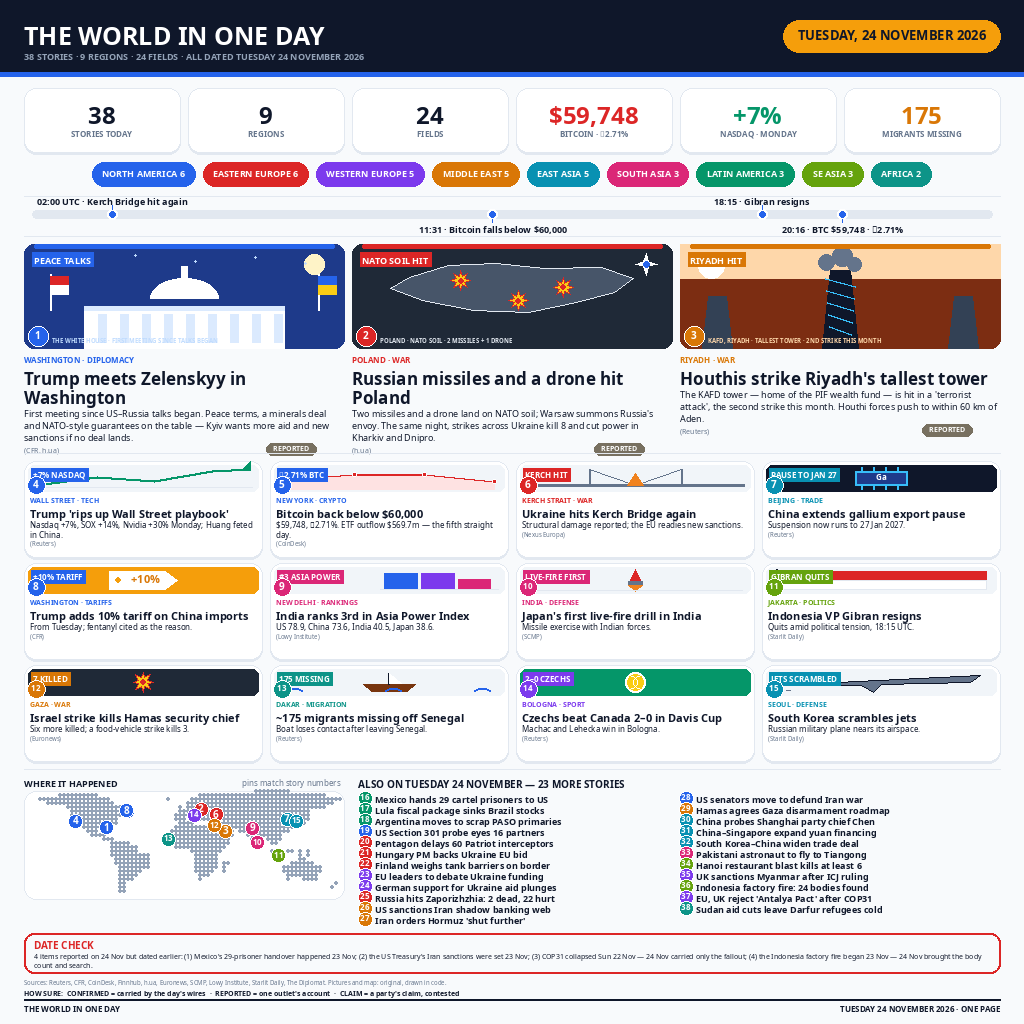
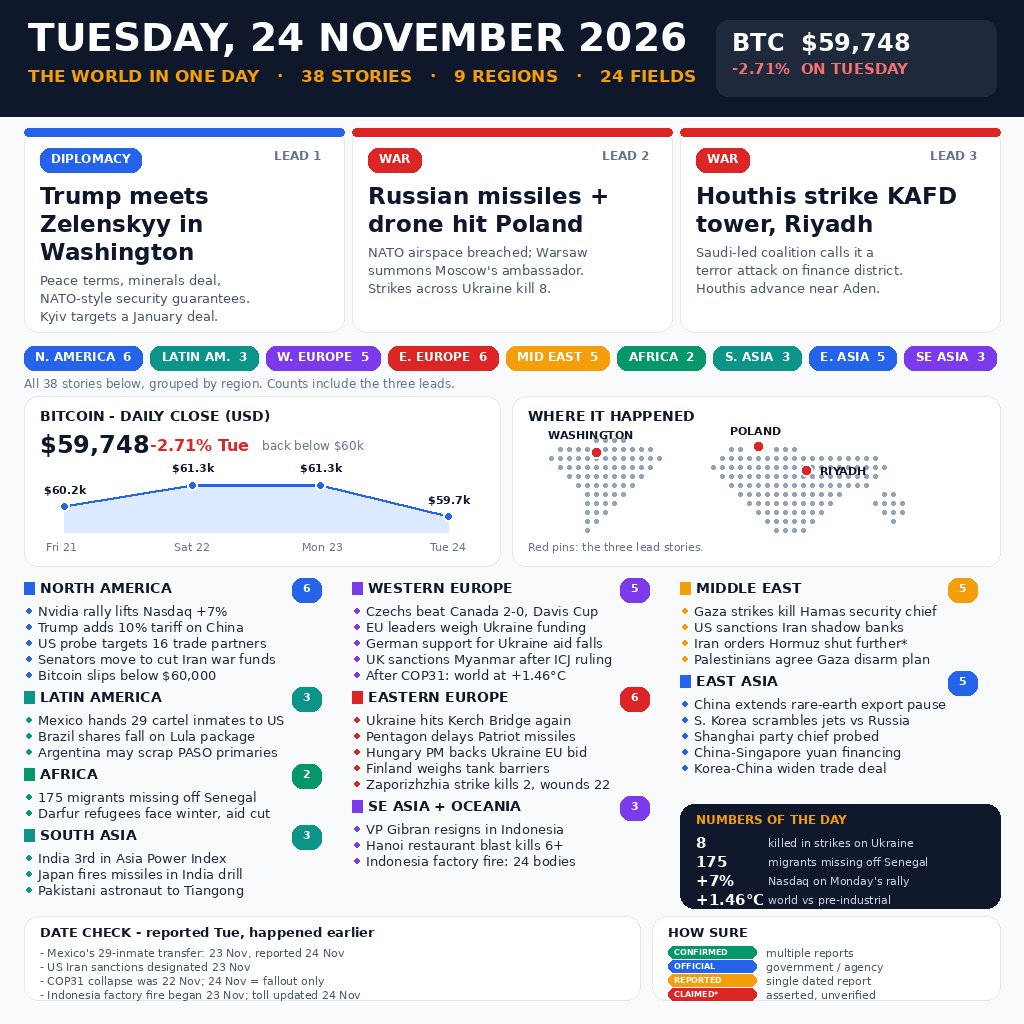
News 24 v2: legibility redesign - huge date masthead, big leads, region-grouped stories

diff --git a/main.py b/main.py
@@ -1,21 +1,285 @@
 #!/usr/bin/env python3
-"""Entry program for news-image-20261124: copy the pre-rendered front page
-to the output directory. Deterministic: no clock, no network, no randomness.
-The image is generated by prep/news24/build.py and stored in this repo as
-entry.png; this program only copies it byte-for-byte.
+"""news-image-20261124 v2: render Tuesday 24 November 2026 in one image.
+
+Deterministic Pillow render: fixed data, fixed fonts, no clock, no network.
+Writes entry.png (1024x1024) into MAKEFUN_OUTPUT_DIR or /output.
+Design goal: masthead date + three lead headlines readable at ~300px;
+all 38 stories kept, grouped by region in large type.
 """
-import os, shutil
+import os
+from PIL import Image, ImageDraw, ImageFont
+
+W = H = 1024
+INK = (15, 23, 42)
+PAPER = (248, 250, 252)
+CARD = (255, 255, 255)
+LINE = (226, 232, 240)
+MUT = (100, 116, 139)
+BLUE = (37, 99, 235)
+AMBER = (245, 158, 11)
+RED = (220, 38, 38)
+GREEN = (5, 150, 105)
+TEAL = (13, 148, 136)
+PURPLE = (124, 58, 237)
+WHITE = (255, 255, 255)
+
+FB = "/usr/share/fonts/truetype/dejavu/DejaVuSans-Bold.ttf"
+FR = "/usr/share/fonts/truetype/dejavu/DejaVuSans.ttf"
+
+
+def f(path, size):
+    return ImageFont.truetype(path, size)
+
+
+LEADS = [
+    ("DIPLOMACY", BLUE, "Trump meets Zelenskyy in Washington",
+     ["Peace terms, minerals deal,", "NATO-style security guarantees.", "Kyiv targets a January deal."]),
+    ("WAR", RED, "Russian missiles + drone hit Poland",
+     ["NATO airspace breached; Warsaw", "summons Moscow's ambassador.", "Strikes across Ukraine kill 8."]),
+    ("WAR", RED, "Houthis strike KAFD tower, Riyadh",
+     ["Saudi-led coalition calls it a", "terror attack on finance district.", "Houthis advance near Aden."]),
+]
+
+REGIONS = [
+    ("NORTH AMERICA", 6, BLUE, [
+        "Nvidia rally lifts Nasdaq +7%",
+        "Trump adds 10% tariff on China",
+        "US probe targets 16 trade partners",
+        "Senators move to cut Iran war funds",
+        "Bitcoin slips below $60,000",
+    ]),
+    ("LATIN AMERICA", 3, TEAL, [
+        "Mexico hands 29 cartel inmates to US",
+        "Brazil shares fall on Lula package",
+        "Argentina may scrap PASO primaries",
+    ]),
+    ("WESTERN EUROPE", 5, PURPLE, [
+        "Czechs beat Canada 2-0, Davis Cup",
+        "EU leaders weigh Ukraine funding",
+        "German support for Ukraine aid falls",
+        "UK sanctions Myanmar after ICJ ruling",
+        "After COP31: world at +1.46°C",
+    ]),
+    ("EASTERN EUROPE", 6, RED, [
+        "Ukraine hits Kerch Bridge again",
+        "Pentagon delays Patriot missiles",
+        "Hungary PM backs Ukraine EU bid",
+        "Finland weighs tank barriers",
+        "Zaporizhzhia strike kills 2, wounds 22",
+    ]),
+    ("MIDDLE EAST", 5, AMBER, [
+        "Gaza strikes kill Hamas security chief",
+        "US sanctions Iran shadow banks",
+        "Iran orders Hormuz shut further*",
+        "Palestinians agree Gaza disarm plan",
+    ]),
+    ("AFRICA", 2, GREEN, [
+        "175 migrants missing off Senegal",
+        "Darfur refugees face winter, aid cut",
+    ]),
+    ("SOUTH ASIA", 3, TEAL, [
+        "India 3rd in Asia Power Index",
+        "Japan fires missiles in India drill",
+        "Pakistani astronaut to Tiangong",
+    ]),
+    ("EAST ASIA", 5, BLUE, [
+        "China extends rare-earth export pause",
+        "S. Korea scrambles jets vs Russia",
+        "Shanghai party chief probed",
+        "China-Singapore yuan financing",
+        "Korea-China widen trade deal",
+    ]),
+    ("SE ASIA + OCEANIA", 3, PURPLE, [
+        "VP Gibran resigns in Indonesia",
+        "Hanoi restaurant blast kills 6+",
+        "Indonesia factory fire: 24 bodies",
+    ]),
+]
+
+BTC = [("Fri 21", 60216), ("Sat 22", 61271), ("Mon 23", 61271), ("Tue 24", 59748)]
+
+DATE_CHECK = [
+    "Mexico's 29-inmate transfer: 23 Nov, reported 24 Nov",
+    "US Iran sanctions designated 23 Nov",
+    "COP31 collapse was 22 Nov; 24 Nov = fallout only",
+    "Indonesia factory fire began 23 Nov; toll updated 24 Nov",
+]
+
+HOW_SURE = [
+    ("CONFIRMED", GREEN, "multiple reports"),
+    ("OFFICIAL", BLUE, "government / agency"),
+    ("REPORTED", AMBER, "single dated report"),
+    ("CLAIMED*", RED, "asserted, unverified"),
+]
+
+
+def card(d, box, r=14, fill=CARD, outline=LINE):
+    d.rounded_rectangle(box, radius=r, fill=fill, outline=outline, width=1)
+
+
+def pill(d, x, y, text, color, font, fg=WHITE):
+    tw = d.textlength(text, font=font)
+    d.rounded_rectangle([x, y, x + tw + 22, y + 24], radius=10, fill=color)
+    d.text((x + 11, y + 3), text, font=font, fill=fg)
+    return x + tw + 22
+
+
+def wrap(d, text, font, maxw):
+    words, lines, cur = text.split(), [], ""
+    for w in words:
+        t = (cur + " " + w).strip()
+        if d.textlength(t, font=font) <= maxw:
+            cur = t
+        else:
+            lines.append(cur)
+            cur = w
+    if cur:
+        lines.append(cur)
+    return lines
+
+WORLD = [
+    "      ####                                    ",
+    "  ###########        ##   ###                 ",
+    " #############      ##################        ",
+    "  ###########      ####################       ",
+    "   #########        ##################        ",
+    "    #######          ################         ",
+    "     #####            ############    ##      ",
+    "     ####              ##########    ####     ",
+    "     ###                ########      ###     ",
+    "     ##                  ######        #      ",
+    "     #                    ####                ",
+]
+
+
+def draw():
+    img = Image.new("RGB", (W, H), PAPER)
+    d = ImageDraw.Draw(img)
+
+    # Masthead
+    d.rectangle([0, 0, W, 116], fill=INK)
+    d.text((28, 14), "TUESDAY, 24 NOVEMBER 2026", font=f(FB, 39), fill=WHITE)
+    d.text((28, 66), "THE WORLD IN ONE DAY   ·   38 STORIES   ·   9 REGIONS   ·   24 FIELDS",
+           font=f(FB, 17), fill=AMBER)
+    d.rounded_rectangle([716, 20, 996, 96], radius=12, fill=(30, 41, 59))
+    d.text((732, 28), "BTC  $59,748", font=f(FB, 24), fill=WHITE)
+    d.text((732, 60), "-2.71%  ON TUESDAY", font=f(FB, 15), fill=(248, 113, 113))
+
+    # Lead cards
+    for i, (kick, color, head, det) in enumerate(LEADS):
+        x = 24 + i * 328
+        card(d, [x, 128, x + 320, 332])
+        d.rounded_rectangle([x, 128, x + 320, 136], radius=4, fill=color)
+        pill(d, x + 16, 148, kick, color, f(FB, 12))
+        d.text((x + 250, 148), f"LEAD {i + 1}", font=f(FB, 12), fill=MUT)
+        y = 182
+        for ln in wrap(d, head, f(FB, 23), 288):
+            d.text((x + 16, y), ln, font=f(FB, 23), fill=INK)
+            y += 28
+        y += 6
+        for ln in det:
+            d.text((x + 16, y), ln, font=f(FR, 13), fill=(71, 85, 105))
+            y += 18
+
+    # Region strip
+    short = [("N. AMERICA", 6, BLUE), ("LATIN AM.", 3, TEAL), ("W. EUROPE", 5, PURPLE),
+             ("E. EUROPE", 6, RED), ("MID EAST", 5, AMBER), ("AFRICA", 2, GREEN),
+             ("S. ASIA", 3, TEAL), ("E. ASIA", 5, BLUE), ("SE ASIA", 3, PURPLE)]
+    x = 24
+    for name, n, color in short:
+        x = pill(d, x, 346, f"{name}  {n}", color, f(FB, 12)) + 8
+    d.text((24, 376), "All 38 stories below, grouped by region. Counts include the three leads.",
+           font=f(FR, 12), fill=MUT)
+
+    # BTC chart card
+    card(d, [24, 396, 500, 566])
+    d.text((40, 408), "BITCOIN - DAILY CLOSE (USD)", font=f(FB, 14), fill=INK)
+    d.text((40, 430), "$59,748", font=f(FB, 24), fill=INK)
+    d.text((150, 436), "-2.71% Tue", font=f(FB, 16), fill=RED)
+    d.text((262, 438), "back below $60k", font=f(FR, 12), fill=MUT)
+    lo, hi = 59000, 62000
+    pts = []
+    for i, (lab, v) in enumerate(BTC):
+        px = 64 + i * 128
+        py = 532 - (v - lo) / (hi - lo) * 62
+        pts.append((px, py))
+    d.polygon(pts + [(pts[-1][0], 532), (pts[0][0], 532)], fill=(219, 234, 254))
+    d.line(pts, fill=BLUE, width=3)
+    for (px, py), (lab, v) in zip(pts, BTC):
+        d.ellipse([px - 5, py - 5, px + 5, py + 5], fill=BLUE, outline=WHITE, width=2)
+        d.text((px - 20, py - 24), f"${v / 1000:.1f}k", font=f(FB, 11), fill=INK)
+        d.text((px - 18, 540), lab, font=f(FR, 11), fill=MUT)
+
+    # Map card
+    card(d, [512, 396, 1000, 566])
+    d.text((528, 408), "WHERE IT HAPPENED", font=f(FB, 14), fill=INK)
+    for r, row in enumerate(WORLD):
+        for c, ch in enumerate(row):
+            if ch == "#":
+                gx, gy = 540 + c * 9, 438 + r * 9
+                d.ellipse([gx, gy, gx + 4, gy + 4], fill=(148, 163, 184))
+    for (px, py, lab, lx, ly) in [(596, 452, "WASHINGTON", 548, 428),
+                                  (758, 446, "POLAND", 730, 424),
+                                  (806, 470, "RIYADH", 820, 464)]:
+        d.ellipse([px - 6, py - 6, px + 6, py + 6], fill=RED, outline=WHITE, width=2)
+        d.text((lx, ly), lab, font=f(FB, 11), fill=INK)
+    d.text((528, 540), "Red pins: the three lead stories.", font=f(FR, 11), fill=MUT)
+
+    # Story columns
+    cols = [[0, 1, 5, 6], [2, 3, 8], [4, 7]]
+    for ci, idxs in enumerate(cols):
+        x = 24 + ci * 328
+        y = 580
+        for ri in idxs:
+            name, n, color, stories = REGIONS[ri]
+            d.rectangle([x, y + 2, x + 10, y + 14], fill=color)
+            d.text((x + 16, y), name, font=f(FB, 14), fill=INK)
+            pill(d, x + 268, y - 2, str(n), color, f(FB, 11))
+            y += 23
+            for s in stories:
+                d.ellipse([x + 2, y + 5, x + 7, y + 10], fill=color)
+                d.text((x + 14, y), s, font=f(FR, 13), fill=(30, 41, 59))
+                y += 16
+            y += 6
+    # Big numbers box under column 3
+    bx, by = 680, 804
+    card(d, [bx, by, bx + 320, 908], fill=(15, 23, 42), outline=INK)
+    d.text((bx + 16, by + 8), "NUMBERS OF THE DAY", font=f(FB, 12), fill=AMBER)
+    nums = [("8", "killed in strikes on Ukraine"), ("175", "migrants missing off Senegal"),
+            ("+7%", "Nasdaq on Monday's rally"), ("+1.46°C", "world vs pre-industrial")]
+    yy = by + 30
+    for big, small in nums:
+        d.text((bx + 16, yy), big, font=f(FB, 15), fill=WHITE)
+        d.text((bx + 88, yy + 2), small, font=f(FR, 11), fill=(203, 213, 225))
+        yy += 19
+
+    # Bottom boxes
+    card(d, [24, 916, 640, 1000])
+    d.text((40, 924), "DATE CHECK - reported Tue, happened earlier", font=f(FB, 13), fill=INK)
+    yy = 946
+    for ln in DATE_CHECK:
+        d.text((40, yy), "- " + ln, font=f(FR, 11), fill=(71, 85, 105))
+        yy += 14
+    card(d, [652, 916, 1000, 1000])
+    d.text((668, 924), "HOW SURE", font=f(FB, 13), fill=INK)
+    yy = 946
+    for lab, color, desc in HOW_SURE:
+        d.rounded_rectangle([668, yy, 756, yy + 12], radius=6, fill=color)
+        d.text((674, yy + 1), lab, font=f(FB, 8), fill=WHITE)
+        d.text((766, yy), desc, font=f(FR, 11), fill=(71, 85, 105))
+        yy += 14
+    return img
+
 
 def main():
-    here = os.path.dirname(os.path.abspath(__file__))
-    src = os.path.join(here, "entry.png")
     outdir = os.environ.get("MAKEFUN_OUTPUT_DIR", "/output")
     os.makedirs(outdir, exist_ok=True)
     dst = os.path.join(outdir, "entry.png")
-    shutil.copyfile(src, dst)
-    # Guard the determinism contract: the output must be the source, byte for byte.
-    assert os.path.getsize(dst) == os.path.getsize(src), "copied size differs from entry.png"
-    print("wrote", dst, os.path.getsize(dst), "bytes")
+    draw().save(dst, format="PNG", optimize=True)
+    size = os.path.getsize(dst)
+    assert size <= 1024 * 1024, f"entry.png too large: {size}"
+    print("wrote", dst, size, "bytes")
+
 
 if __name__ == "__main__":
     main()

diff --git a/README.md b/README.md
@@ -4,25 +4,23 @@
 [![rank](https://make.fun/badge/news-image-20261124/BokeXe/news-image-20261124/rank.svg)](https://make.fun/bounty/news-image-20261124/leaderboard?utm_source=github&utm_medium=readme&utm_campaign=news-image-20261124)
 [![reward](https://make.fun/badge/news-image-20261124/BokeXe/news-image-20261124/reward.svg)](https://make.fun/bounty/news-image-20261124?utm_source=github&utm_medium=readme&utm_campaign=news-image-20261124)
 
-Tuesday 24 November 2026 in one image — a modern digital news dashboard with
-38 date-checked stories across 9 regions and 24 fields: an ink header band with
-the date chip, six big-number stat cards, rounded region pills, a UTC timeline,
-three flat-vector lead panels (Trump meets Zelenskyy in Washington; Russian
-missiles and a drone hit Poland; Houthis strike Riyadh's tallest tower), a
-12-card grid with a real Bitcoin area chart (closes $60.2k → $61.3k → $61.3k →
-$59.7k, −2.71% on Tuesday), a dotted world map with numbered pins, and a full
-numbered story index. Every story is tagged by source and confidence
-(confirmed / reported / claimed), and the page carries a DATE CHECK box that
-names the four neighbouring days' items reported on 24 November, so nothing
-from 22–23 November is presented as 24 November's news.
+Tuesday 24 November 2026 in one image — v2, redesigned for legibility: a huge
+date masthead with 38 stories / 9 regions / 24 fields, three large lead blocks
+(Trump meets Zelenskyy in Washington; Russian missiles and a drone hit Poland;
+Houthis strike Riyadh's KAFD tower), a real Bitcoin chart (closes $60.2k →
+$61.3k → $61.3k → $59.7k, −2.71% on Tuesday), a dotted map with the three lead
+locations pinned, and all 35 remaining stories grouped by region in large type
+with visible region counts summing to 38. A DATE CHECK box names the four
+neighbouring days' items reported on 24 November, and a HOW SURE legend marks
+confidence (confirmed / official / reported / claimed), so nothing from
+22–23 November is presented as 24 November's news.
 
-`main.py` copies `entry.png` (1024×1024, ≤1 MiB) to `/output/entry.png`; both runs
-write identical bytes, no network.
+`main.py` renders `entry.png` (1024×1024, ≤1 MiB) to `/output/entry.png` with
+Pillow; both runs write identical bytes, no network.
 
 ## Reproduce
 
-`entry.png` is generated deterministically by `../prep/news24/build.py` (Pillow,
-DejaVu/Noto Sans fonts, no clock, no network). Re-running it produces the same
-bytes; `main.py` refuses to finish if the copied file's size differs from the
-source. The four items flagged in the DATE CHECK box are the only stories on
-the page dated before Tuesday 24 November 2026.
+Run `python3 main.py` (Pillow + DejaVu Sans fonts, no clock, no network). The
+render is deterministic: two runs produce byte-identical PNGs, and the program
+fails if the output exceeds 1 MiB. The four items flagged in the DATE CHECK box
+are the only stories on the page dated before Tuesday 24 November 2026.
